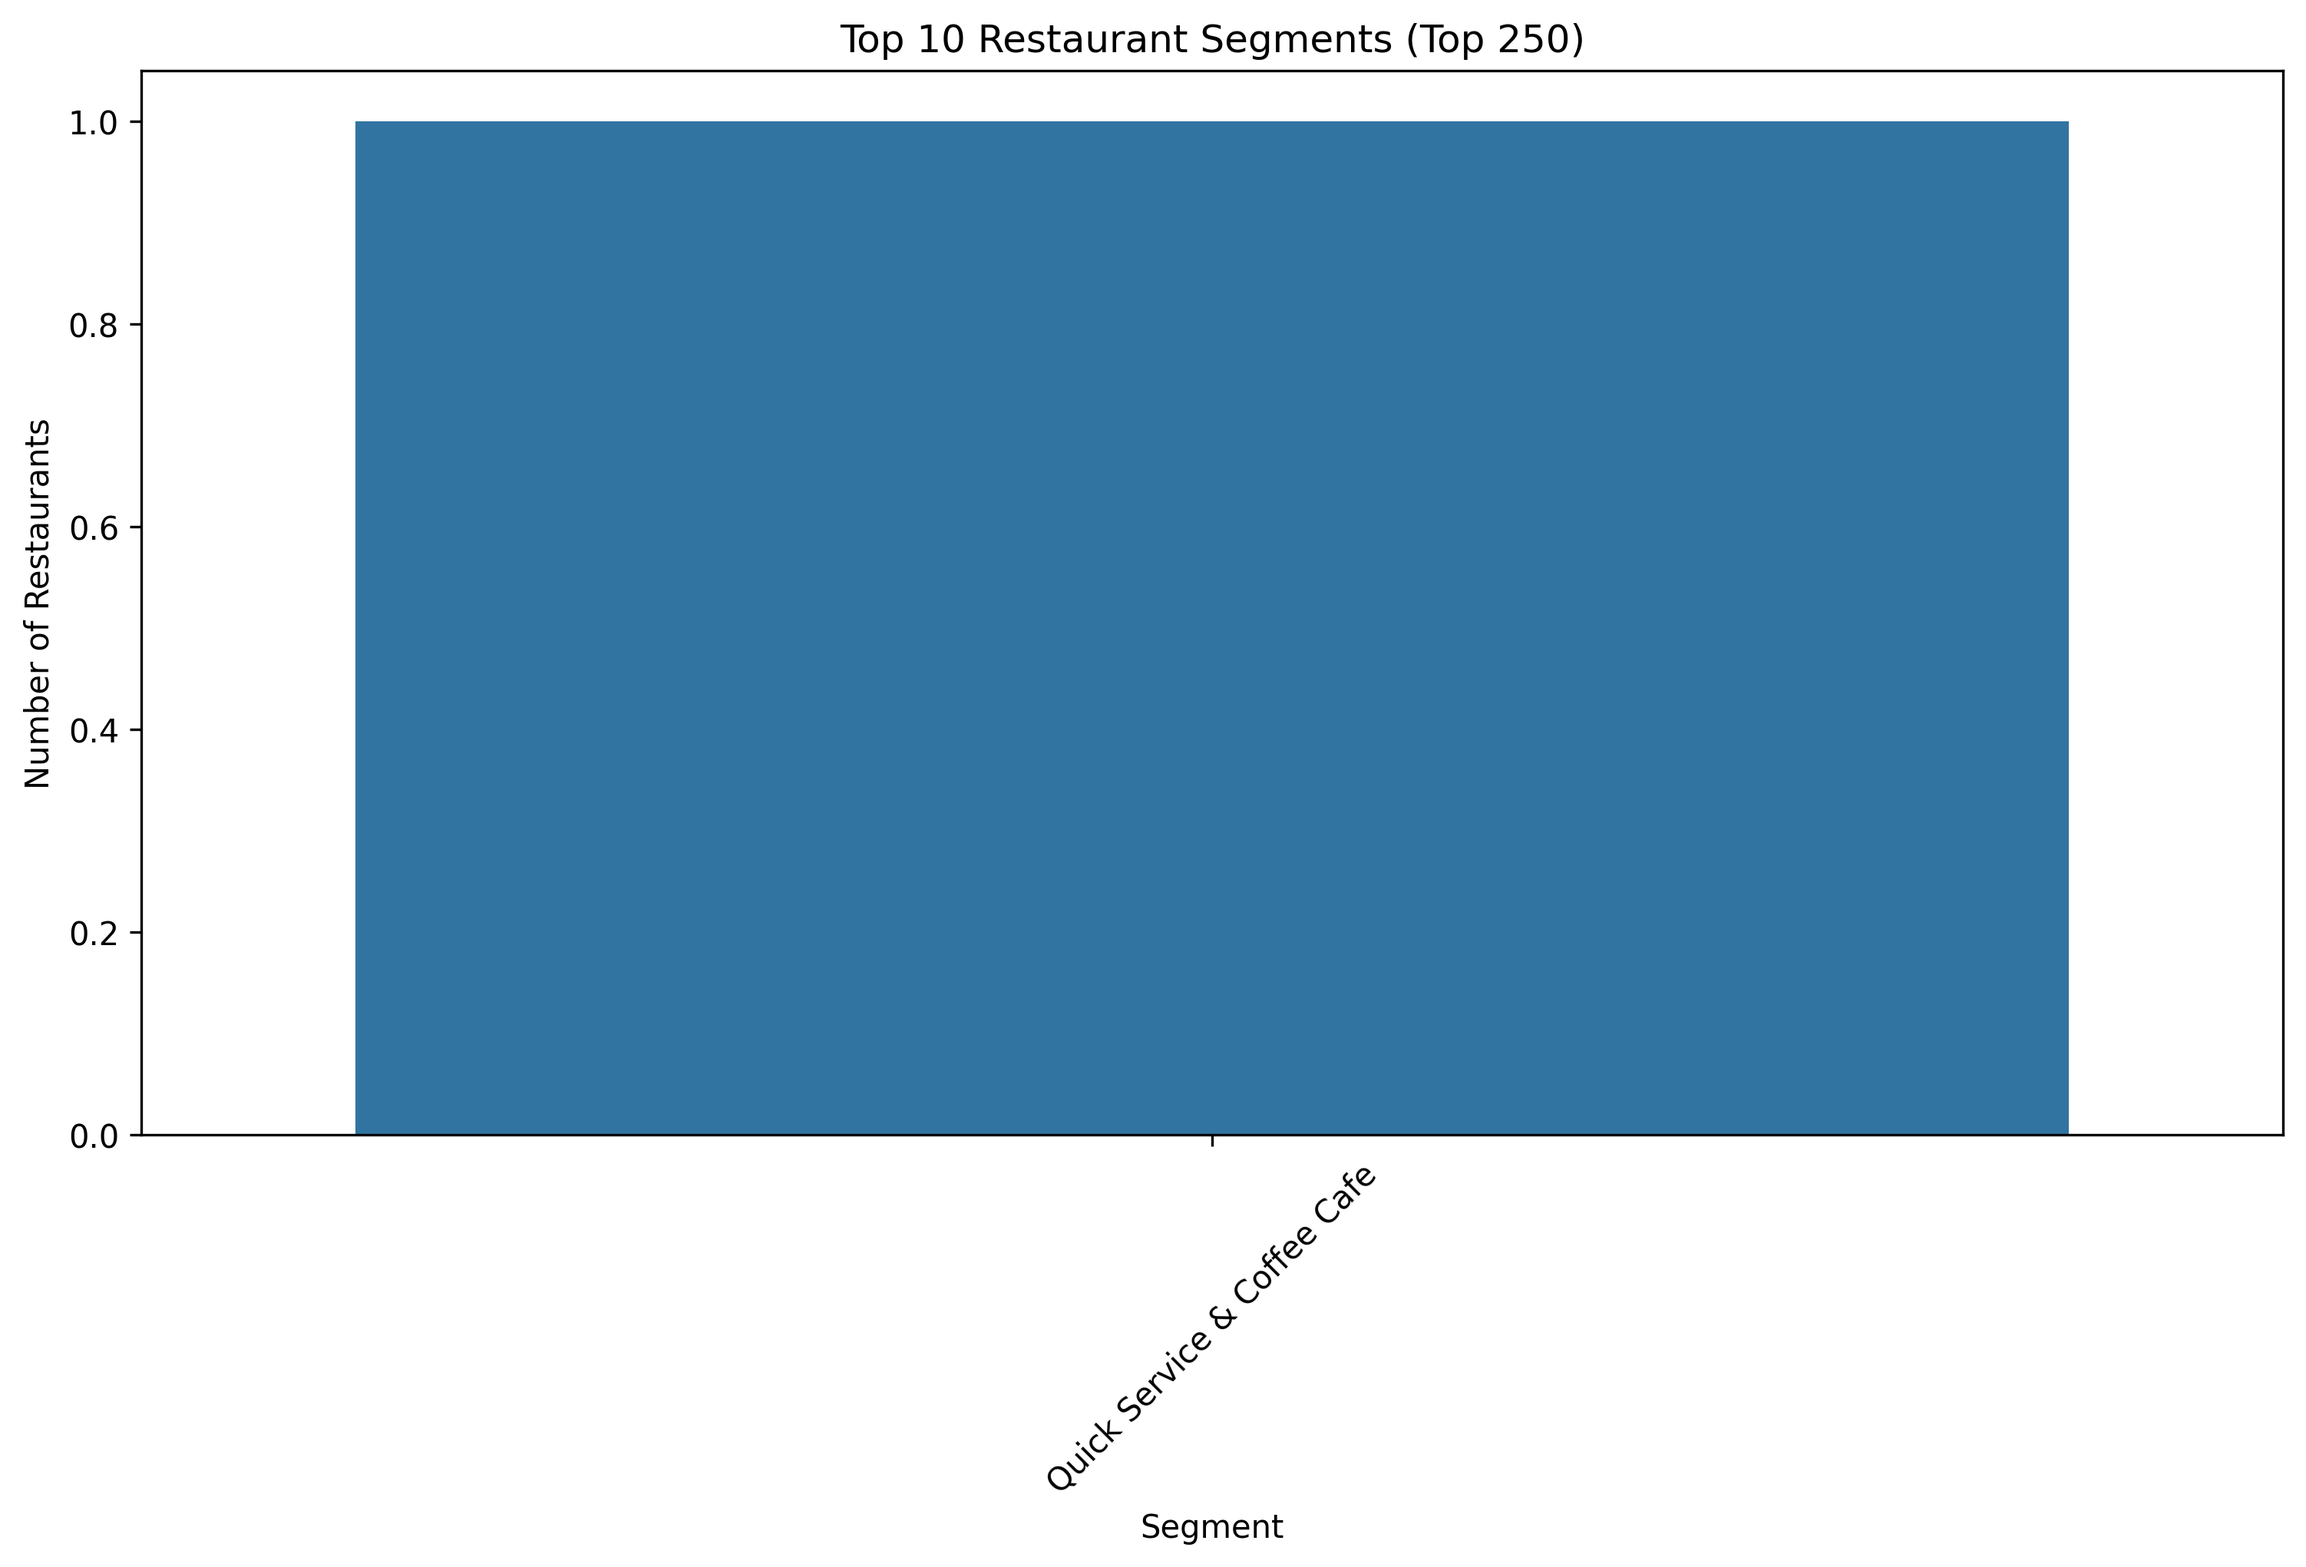
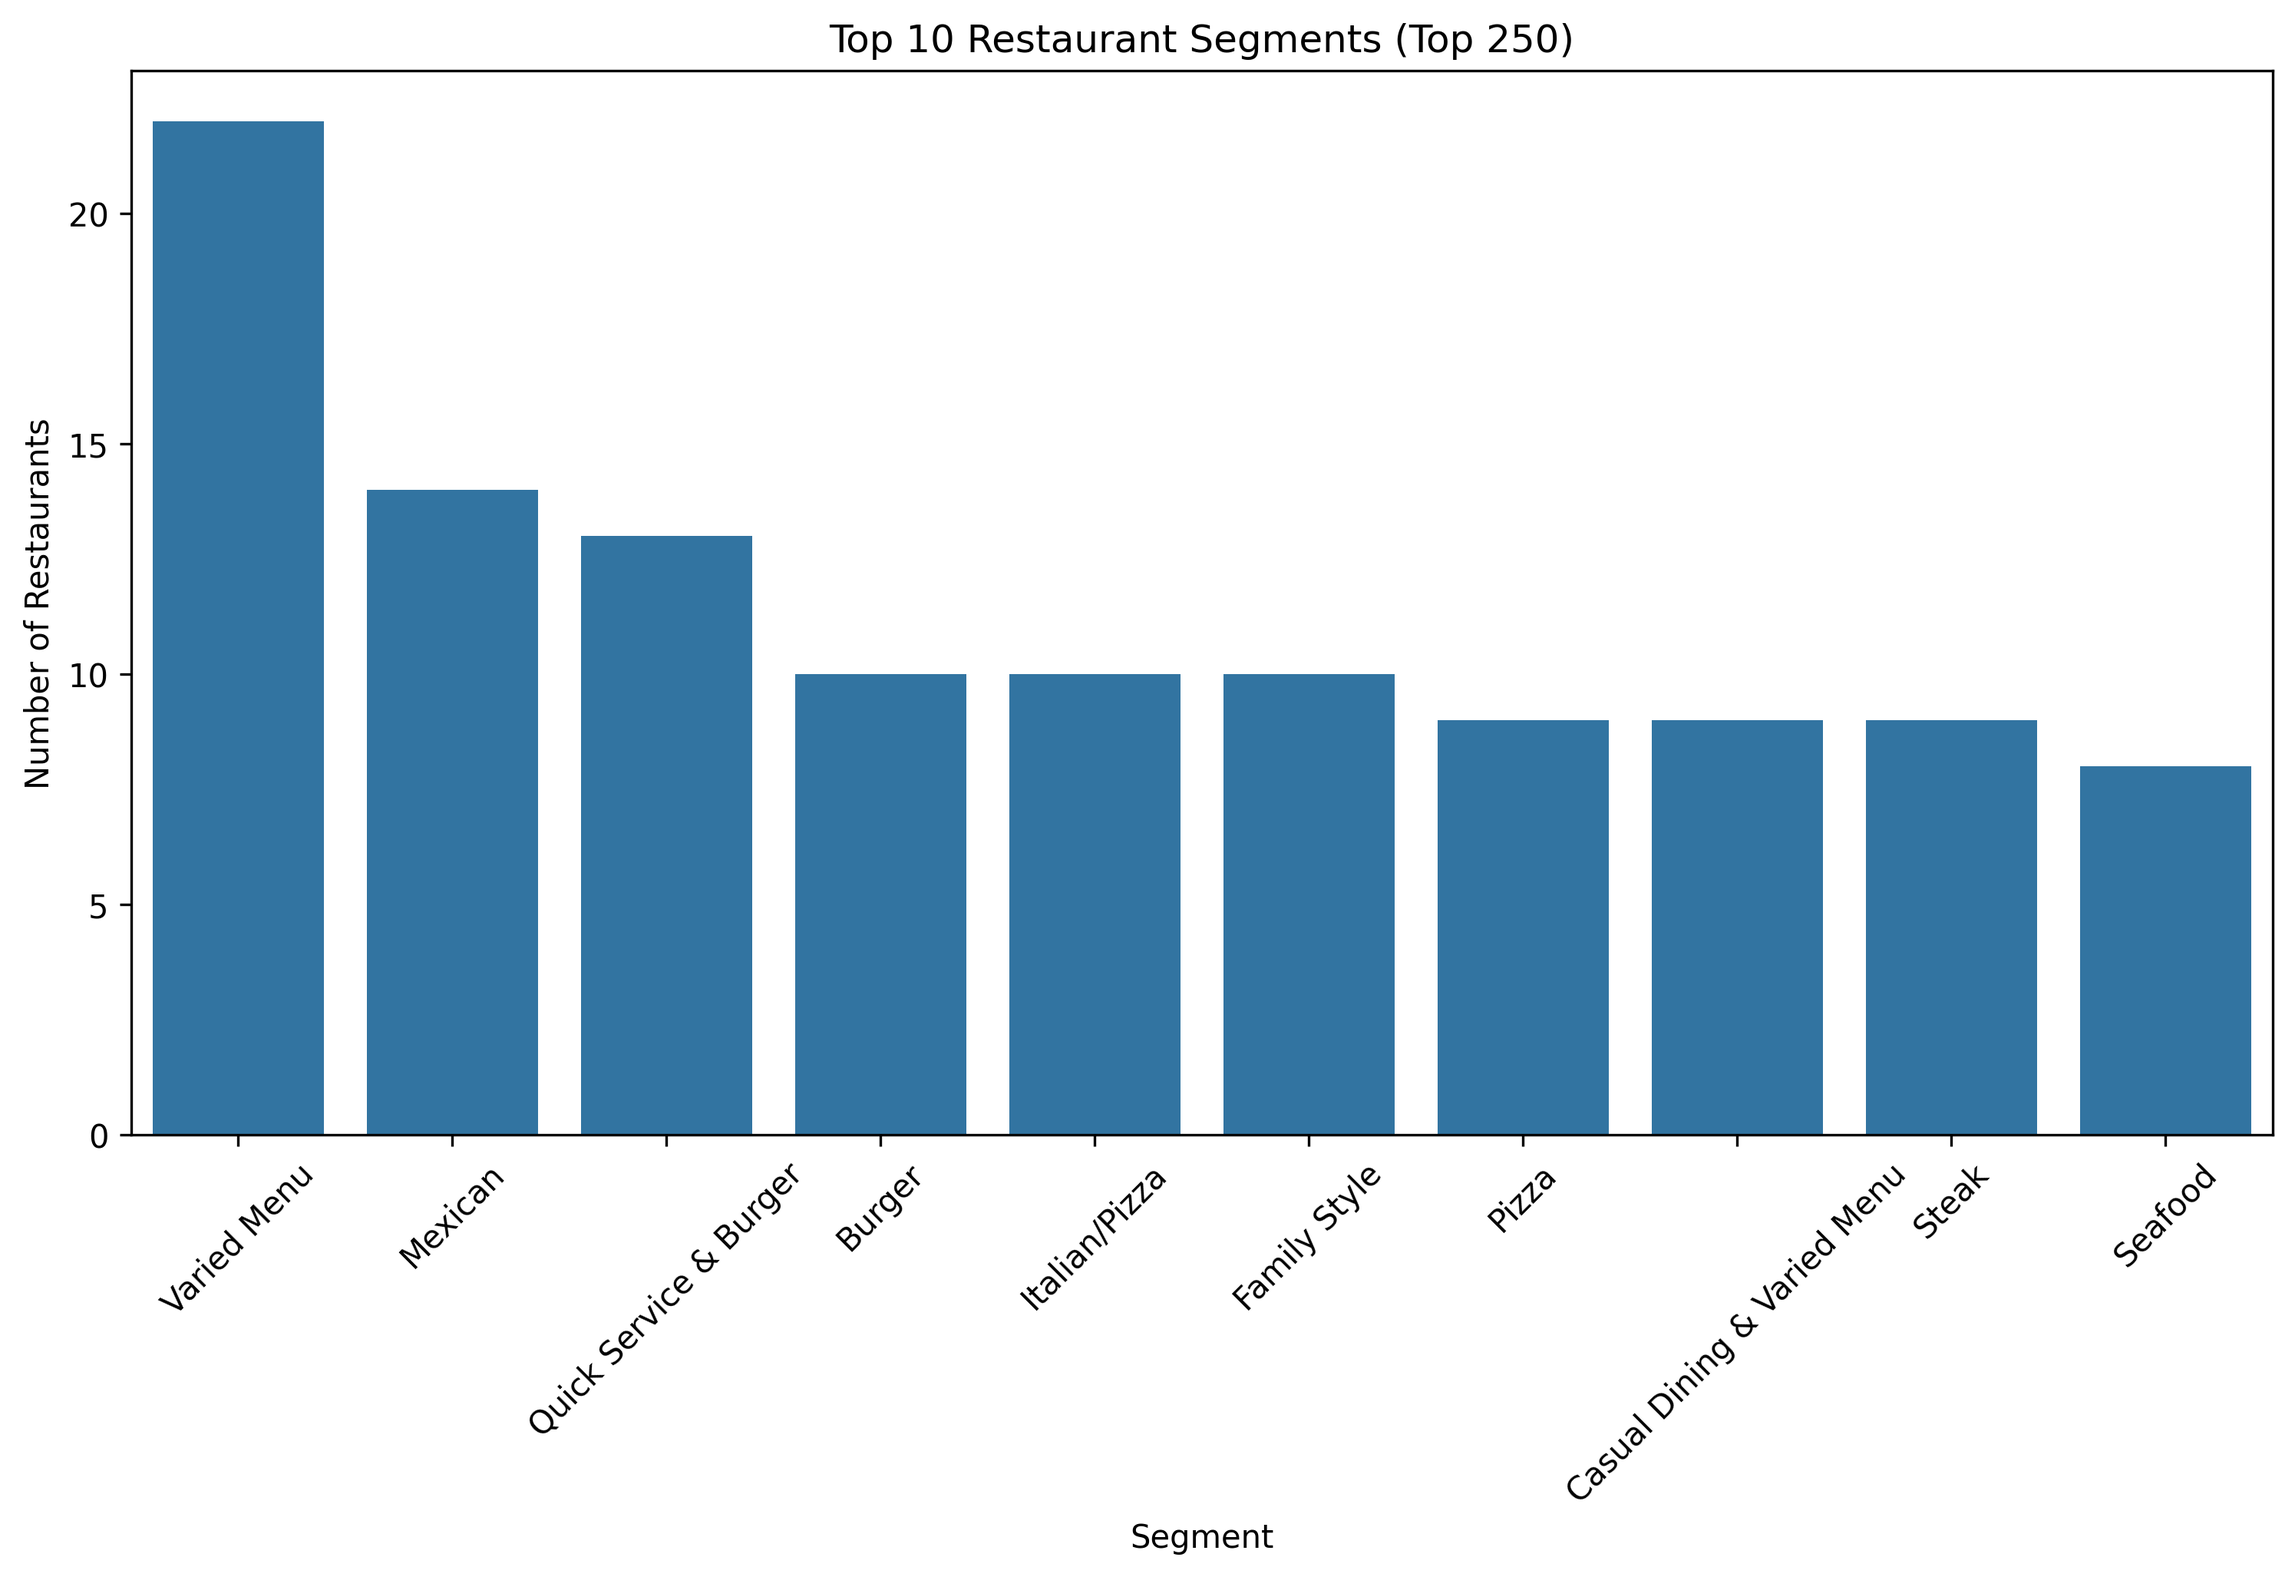
last commit, chart fix

diff --git a/Top_250/top250_analysis.py b/Top_250/top250_analysis.py
@@ -14,11 +14,11 @@ for directory in directories:
 class Logger(object):
     def __init__(self, filename="report_top250.txt"):
         self.terminal = sys.stdout
-        self.log = open(filename, "w")  # Open in write mode
+        self.log = open(filename, "w")
 
     def write(self, message):
-        self.terminal.write(message)  # Print to console
-        self.log.write(message)  # Write to file
+        self.terminal.write(message)
+        self.log.write(message)
 
     def flush(self):
         pass
@@ -29,29 +29,35 @@ sys.stdout = Logger("report_top250.txt")
 print("Top 250 Restaurant Analysis Report\n")
 
 # Load Top 250 Dataset
-df_top250 = pd.read_csv("source/Top250.csv")  # Ensure the file is in the correct folder
+df_top250 = pd.read_csv("source/Top250.csv")
+
 print("\n First 5 Rows of Dataset:")
 print(df_top250.head())
 
 # Data Cleaning & Preprocessing
-df_top250.dropna(inplace=True)  # Drop missing values
-df_top250["Sales"] = df_top250["Sales"].astype(float)  # Convert sales to float
+df_top250["Sales"] = pd.to_numeric(df_top250["Sales"], errors="coerce")  # Convert sales to float
 df_top250["YOY_Sales"] = df_top250["YOY_Sales"].str.rstrip('%').astype(float)  # Convert % to float
-df_top250["Units"] = df_top250["Units"].astype(int)  # Convert units to int
+df_top250["Units"] = pd.to_numeric(df_top250["Units"], errors="coerce")  # Convert to int safely
 df_top250["YOY_Units"] = df_top250["YOY_Units"].str.rstrip('%').astype(float)  # Convert % to float
 
+# Handle missing values (replace instead of dropping all data)
+df_top250.fillna({"YOY_Sales": df_top250["YOY_Sales"].median(),
+                  "YOY_Units": df_top250["YOY_Units"].median(),
+                  "Sales": df_top250["Sales"].median(),
+                  "Units": df_top250["Units"].median()}, inplace=True)
+
 # Exploratory Data Analysis (EDA)
-# Sales Distribution
-plt.figure(figsize=(10,6))
-sns.histplot(df_top250["Sales"], bins=30, kde=True)
+# **Sales Distribution**
+plt.figure(figsize=(10, 6))
+sns.histplot(df_top250["Sales"], bins=20, kde=True)
 plt.title("Sales Distribution (Top 250)")
 plt.xlabel("Total Sales ($)")
 plt.ylabel("Count")
 plt.savefig("generated_charts/top250_sales_distribution.png", dpi=300, bbox_inches='tight')
 plt.show()
 
-# YOY Sales Growth Distribution
-plt.figure(figsize=(10,6))
+# **YOY Sales Growth Distribution**
+plt.figure(figsize=(10, 6))
 sns.histplot(df_top250["YOY_Sales"], bins=20, kde=True)
 plt.title("YOY Sales Growth Distribution (Top 250)")
 plt.xlabel("YOY Sales Growth (%)")
@@ -59,8 +65,8 @@ plt.ylabel("Count")
 plt.savefig("generated_charts/top250_yoy_sales_distribution.png", dpi=300, bbox_inches='tight')
 plt.show()
 
-# YOY Units Growth Distribution
-plt.figure(figsize=(10,6))
+# **YOY Units Growth Distribution**
+plt.figure(figsize=(10, 6))
 sns.histplot(df_top250["YOY_Units"], bins=20, kde=True)
 plt.title("YOY Unit Growth Distribution (Top 250)")
 plt.xlabel("YOY Unit Growth (%)")
@@ -68,9 +74,9 @@ plt.ylabel("Count")
 plt.savefig("generated_charts/top250_yoy_units_distribution.png", dpi=300, bbox_inches='tight')
 plt.show()
 
-# Top Restaurant Segments
+# **Top Restaurant Segments**
 top_segments = df_top250["Segment_Category"].value_counts().head(10)
-plt.figure(figsize=(12,6))
+plt.figure(figsize=(12, 6))
 sns.barplot(x=top_segments.index, y=top_segments.values)
 plt.xticks(rotation=45)
 plt.title("Top 10 Restaurant Segments (Top 250)")
@@ -79,28 +85,28 @@ plt.ylabel("Number of Restaurants")
 plt.savefig("generated_charts/top250_top_segments.png", dpi=300, bbox_inches='tight')
 plt.show()
 
-# Top-Performing Restaurants
-# Top 10 Restaurants by Sales
+# **Top-Performing Restaurants**
+# **Top 10 Restaurants by Sales**
 top_sales = df_top250[["Restaurant", "Sales"]].sort_values(by="Sales", ascending=False).head(10)
 print("\n Top 10 Restaurants by Sales:")
 print(top_sales.to_string(index=False))
 
-# Top 10 Restaurants by YOY Sales Growth
+# **Top 10 Restaurants by YOY Sales Growth**
 top_yoy_sales = df_top250[["Restaurant", "YOY_Sales"]].sort_values(by="YOY_Sales", ascending=False).head(10)
 print("\n Top 10 Restaurants by YOY Sales Growth:")
 print(top_yoy_sales.to_string(index=False))
 
-# Top 10 Restaurants by Units
+# **Top 10 Restaurants by Units**
 top_units = df_top250[["Restaurant", "Units"]].sort_values(by="Units", ascending=False).head(10)
 print("\n Top 10 Restaurants by Total Units:")
 print(top_units.to_string(index=False))
 
-# Top 10 Restaurants by YOY Unit Growth
+# **Top 10 Restaurants by YOY Unit Growth**
 top_yoy_units = df_top250[["Restaurant", "YOY_Units"]].sort_values(by="YOY_Units", ascending=False).head(10)
 print("\n Top 10 Restaurants by YOY Unit Growth:")
 print(top_yoy_units.to_string(index=False))
 
-# Export Cleaned Data for Reporting
+# **Export Cleaned Data for Reporting**
 df_top250.to_csv("generated_clean_csv/cleaned_top250.csv", index=False)
 top_sales.to_csv("generated_clean_csv/top_sales_top250.csv", index=False)
 top_yoy_sales.to_csv("generated_clean_csv/top_yoy_sales_top250.csv", index=False)
